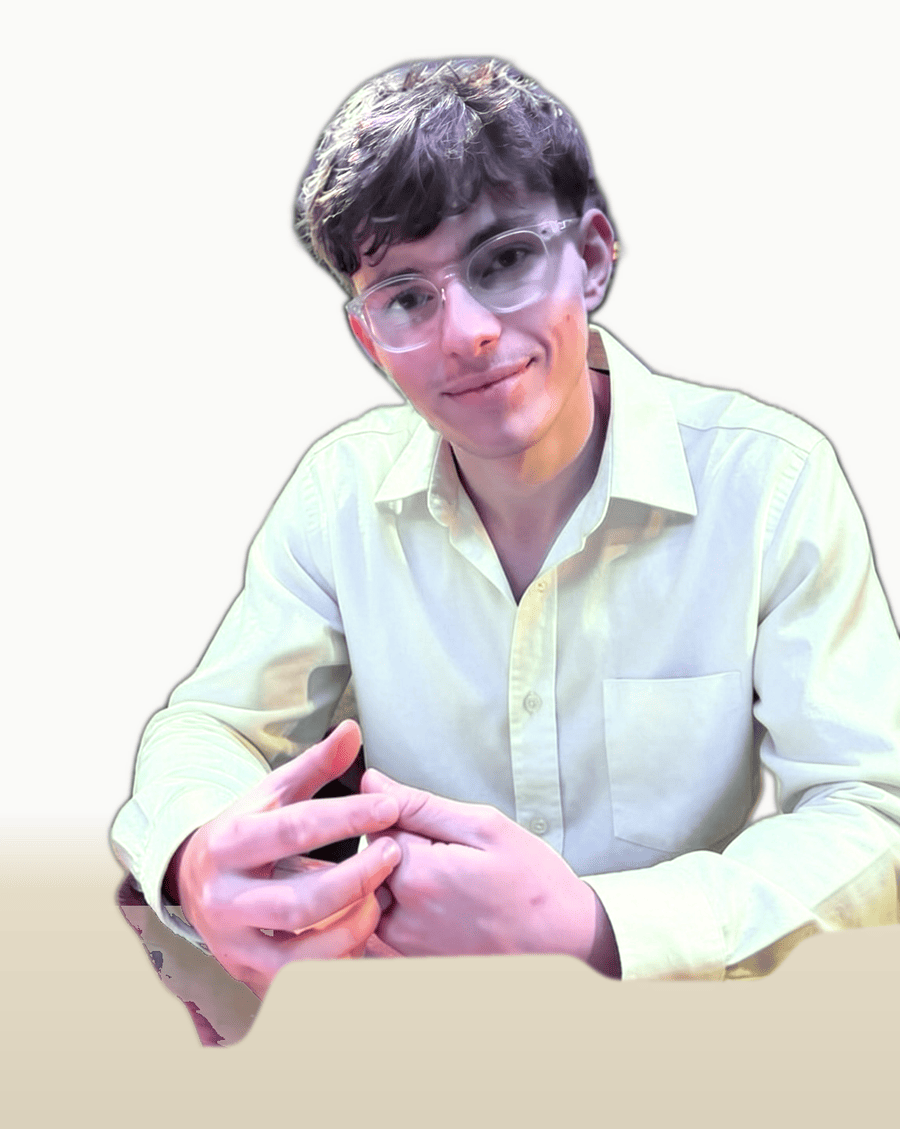
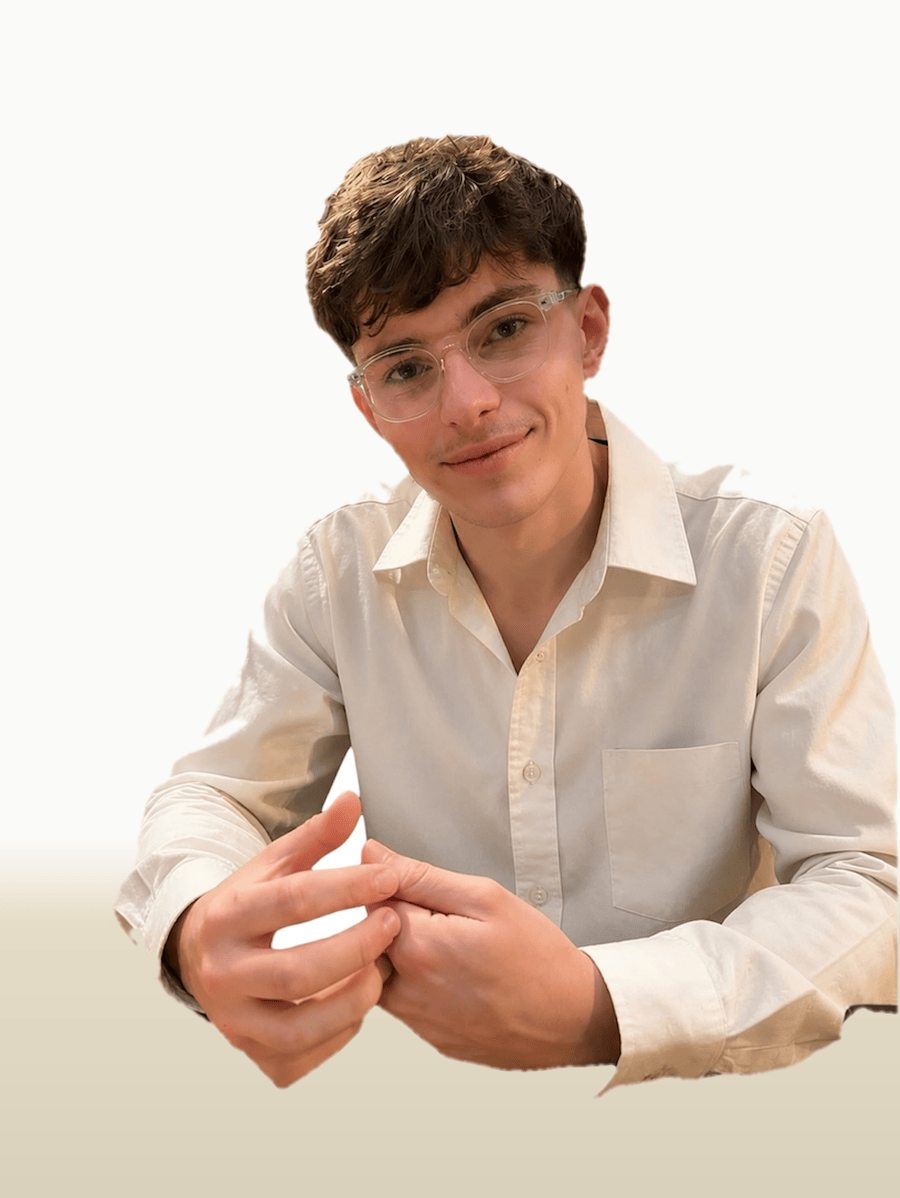
Photo finale : detourage propre fourni par l'utilisateur, fond bureau

diff --git a/index.html b/index.html
@@ -92,7 +92,7 @@
 
       <div class="hero-photo reveal" style="--delay:120ms">
         <figure>
-          <img src="images/julien.png" alt="Portrait de Julien Pires" width="900" height="1129">
+          <img src="images/julien.png" alt="Portrait de Julien Pires" width="900" height="1198">
           <figcaption><span class="mono">Julien Pires — Amiens</span></figcaption>
         </figure>
       </div>
